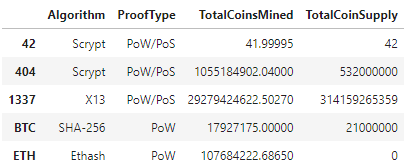
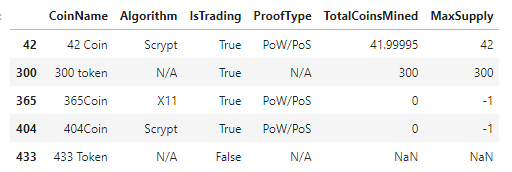
ver 1.7 - Final

diff --git a/README.md b/README.md
@@ -15,6 +15,8 @@ You are a Senior Manager at the Advisory Services team on a [Big Four firm](http
 
 In this homework assignment, I have put my new unsupervivsed learning and Amazon SageMaker skills into action by clustering cryptocurrencies and creating plots to present my results.
 
+    ***IMPORTANT NOTE: The API has been updated since this homework assignment was created such that it now returns "TotalCoinSupply as "MaxSupply". Please note this when examining code, results and visualisations that anywhere "MaxSupply" is used, it can be interchanged with "TotalCoinSupply" due to the changes in the key labelling returned by the API.*** 
+
 I have accomplished the following main tasks:
 
 * **[Data Preprocessing](#Data-Preprocessing):** Prepare data for dimension reduction with PCA and clustering using K-Means.
